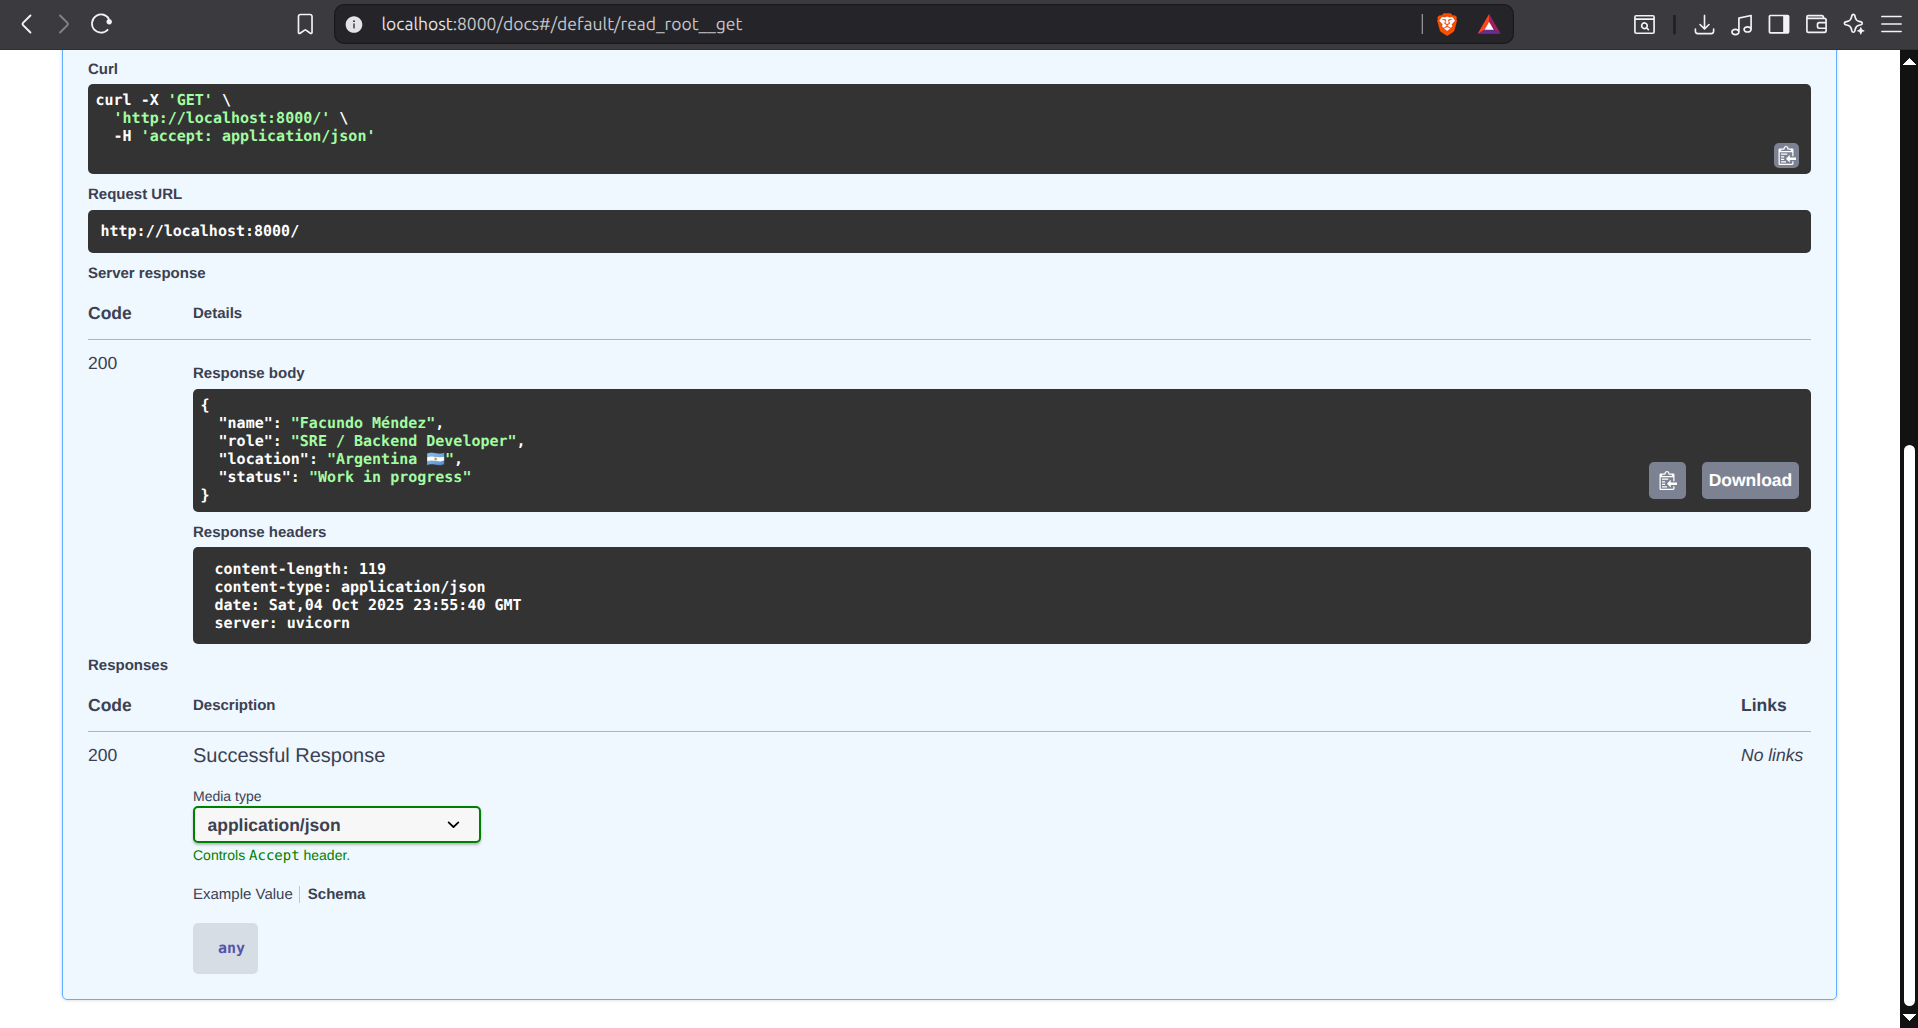
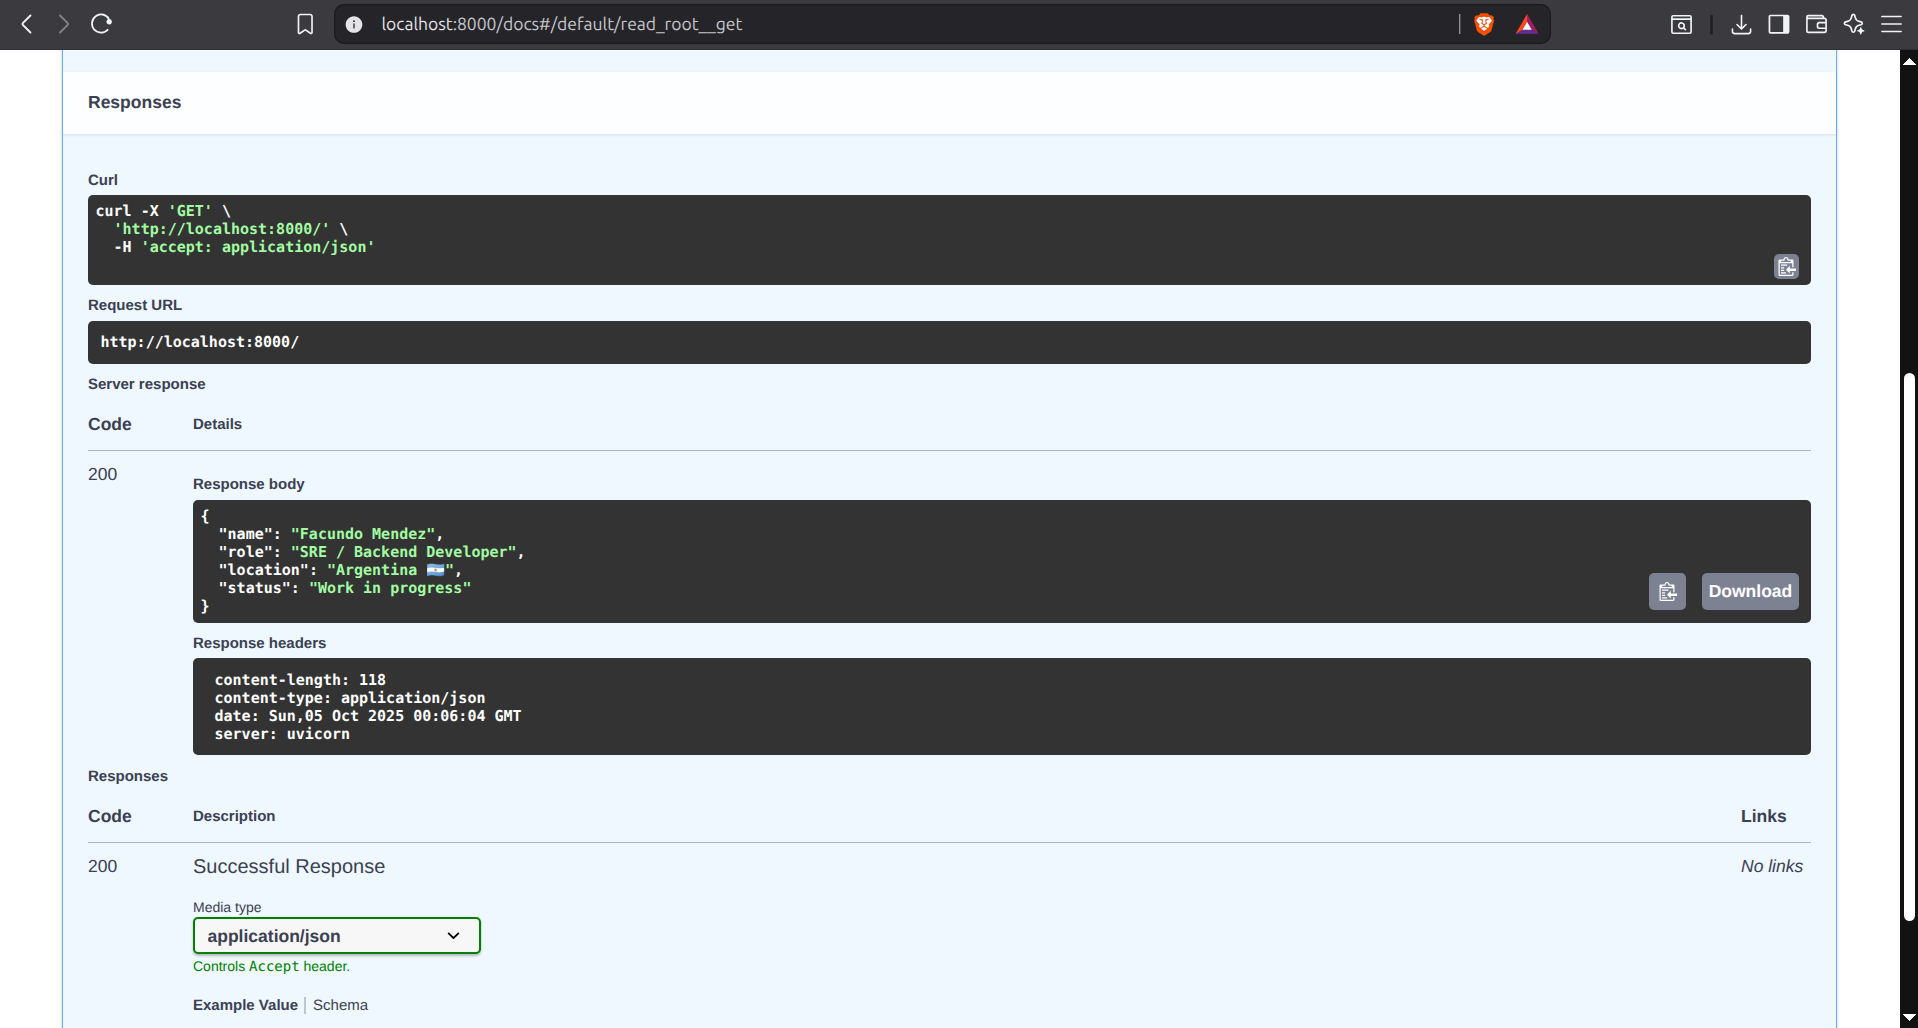
details

diff --git a/main.py b/main.py
@@ -5,7 +5,7 @@ app = FastAPI()
 @app.get("/")
 def read_root():
     return {
-  "name": "Facundo Méndez",
+  "name": "Facundo Mendez",
   "role": "SRE / Backend Developer",
   "location": "Argentina 🇦🇷",
   "status": "Work in progress"
